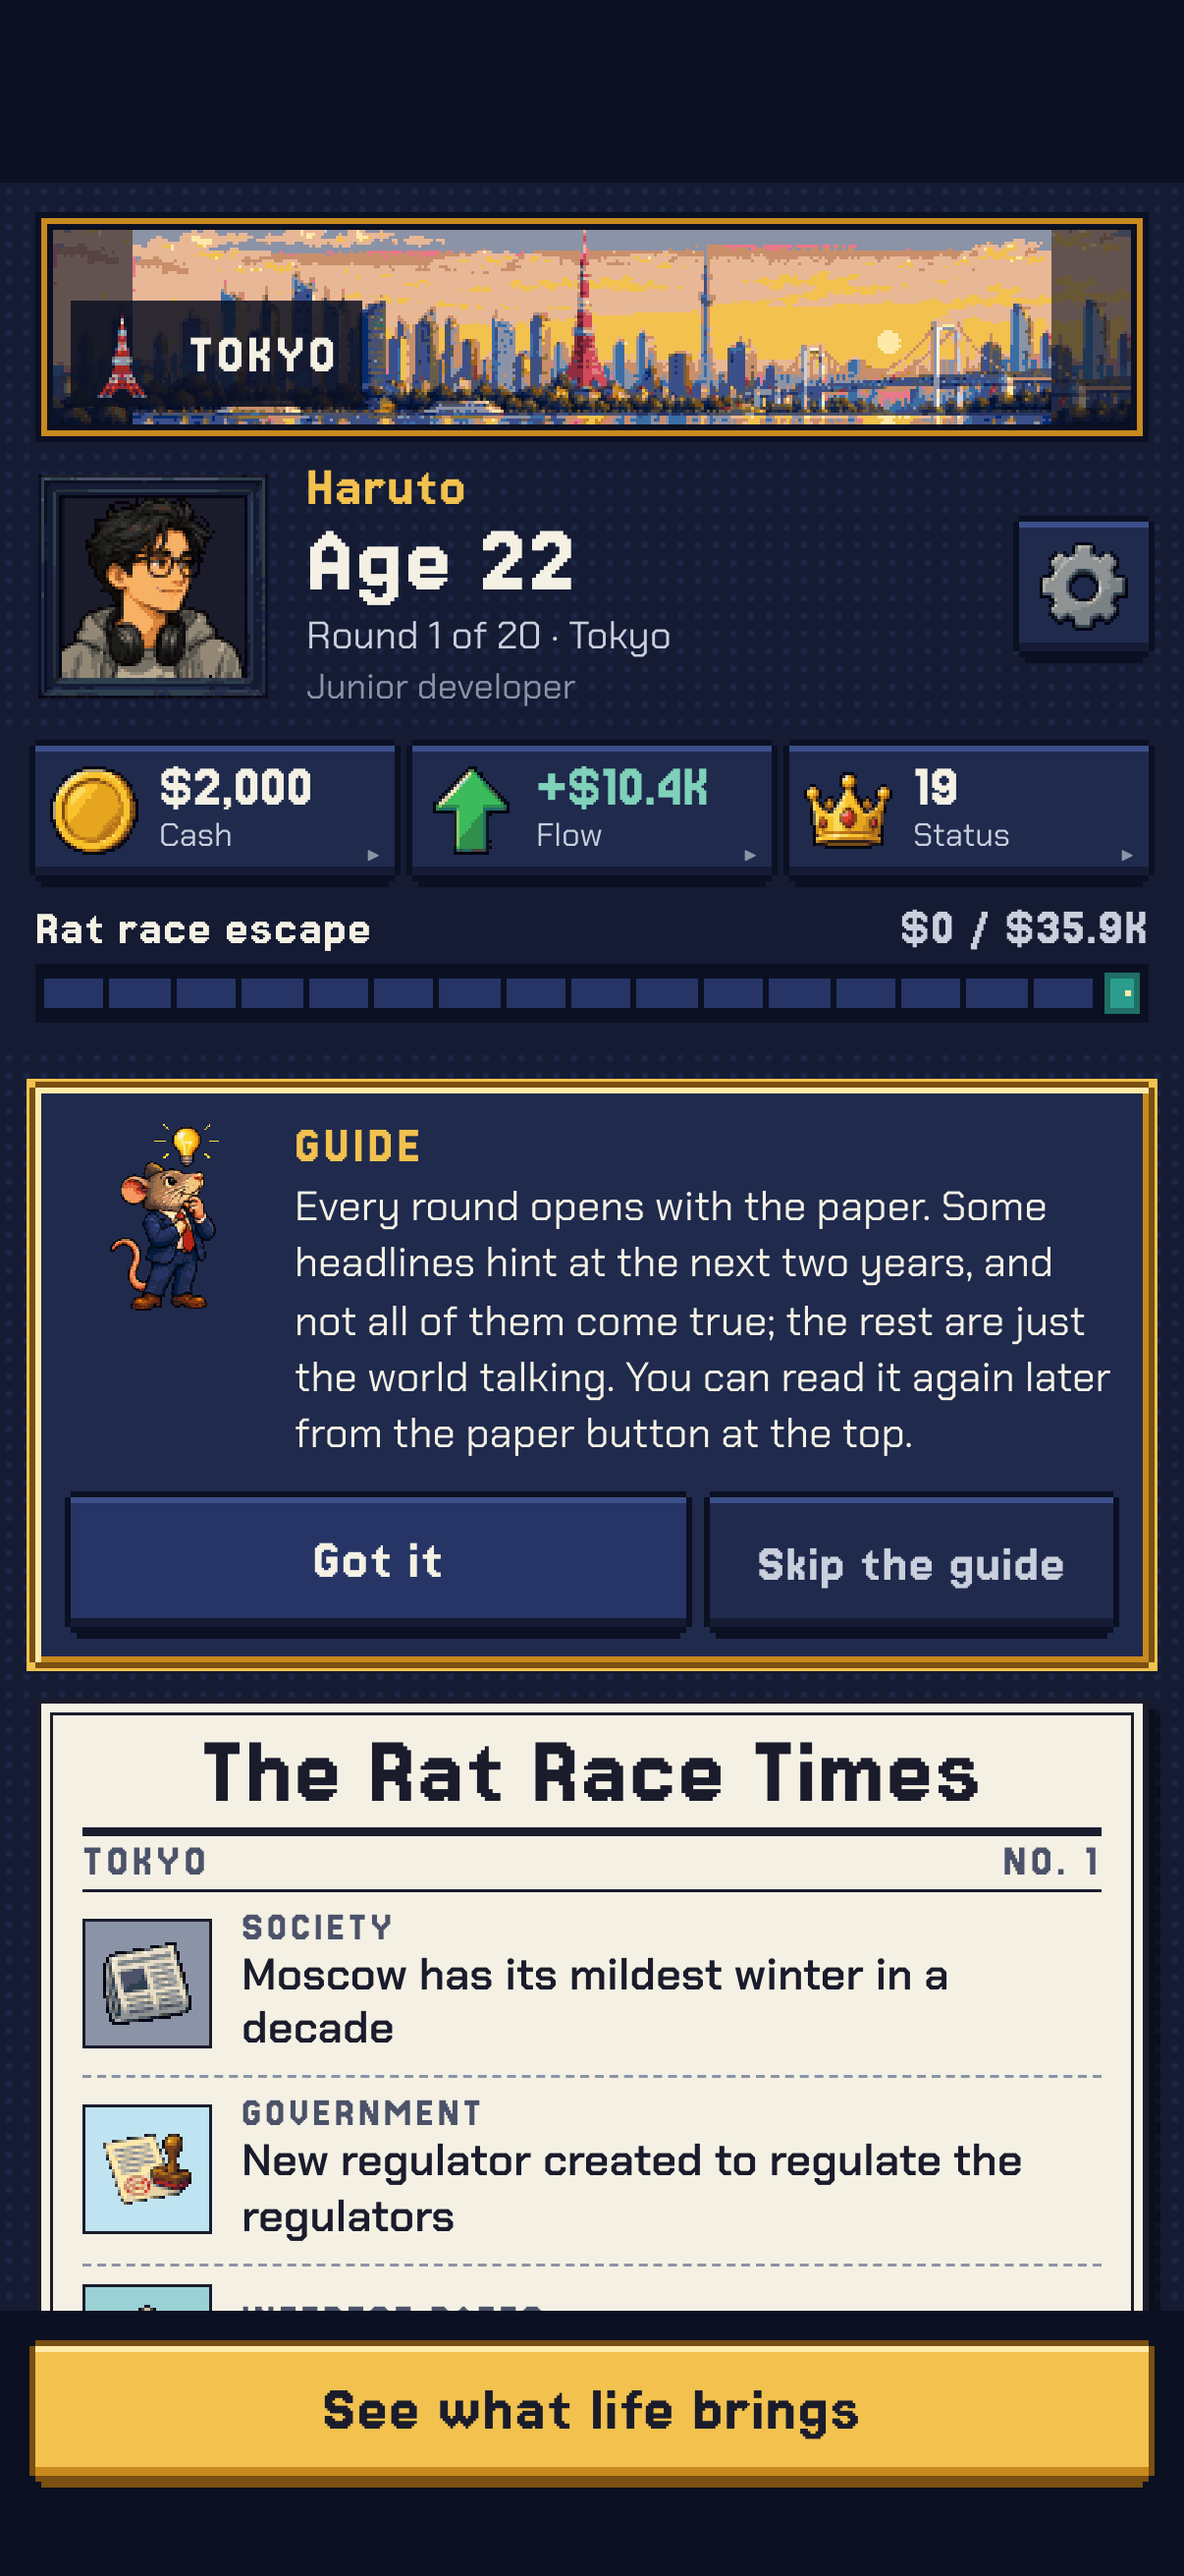
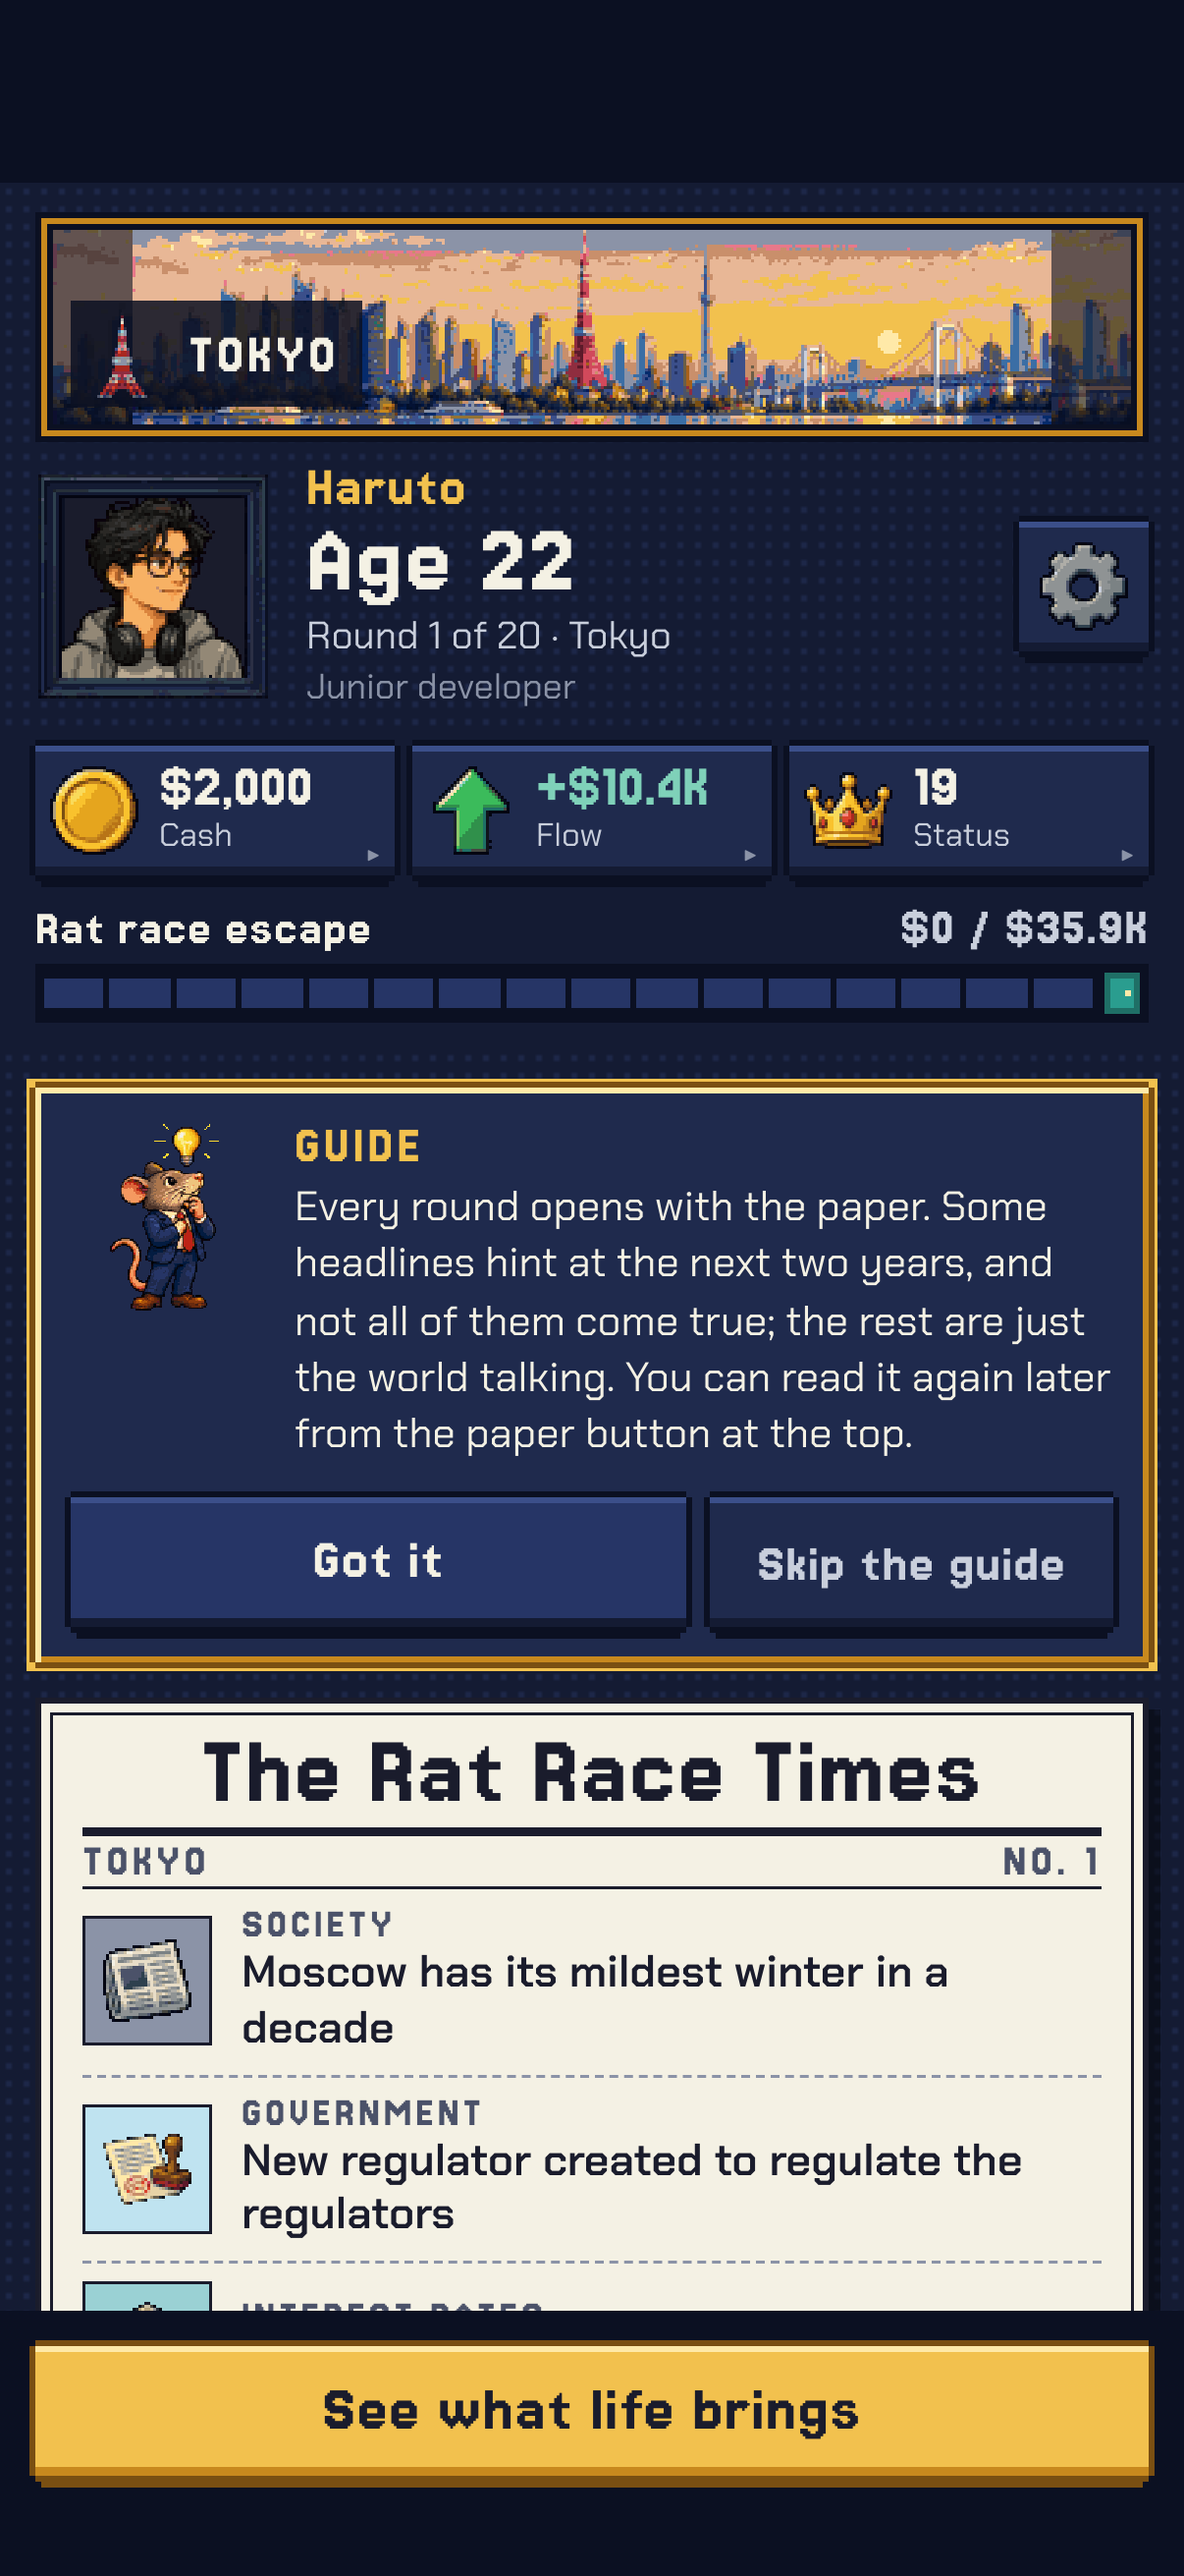
fix(mobile): the paper on the web keeps its own layer, as Chrome keeps the Next web's thrown paper
Under the guide's note or a room's slot (a block of a fractional height) the paper's rows stood a
device pixel or two from the Next web's, each by its own amount, with every line at the same
place to 0.001 px: the Next web's paper keeps its animation's last frame (animate-paper, both)
and Chrome keeps it a layer. On the web the app's paper is one too (ui/keptLayer.web.ts):
play-guide-r1 241 -> 4 px, room-playing 99 -> 9; their records and the report say so.

diff --git a/apps/mobile/scripts/sceneShots.ts b/apps/mobile/scripts/sceneShots.ts
@@ -535,16 +535,16 @@ export const ACCEPTED_APP_WEB: Readonly<Record<string, Accepted>> = {
     report: 'Residuals of the app\'s web: pictures at a fraction of a point',
   },
   'play-guide-r1': {
-    shape: 241,
+    shape: 4,
     oneSided: 0,
-    reason: 'The tops of the letters of the paper\'s last line, under the bar of the next step, peek over the bar\'s edge a device pixel apart (finance-taxes\'s class on the phone); and the four pixels of the city\'s picture of play-news-r1.',
-    report: 'Residuals of the app\'s web: what lies under the bar of the next step',
+    reason: 'The four pixels of the city\'s picture of play-news-r1. (The paper\'s rows under the guide\'s note, a device pixel or two apart, were Chrome\'s layer of the Next web\'s thrown paper: kept on the app\'s web too, ui/keptLayer.web.ts.)',
+    report: 'Residuals of the app\'s web: pictures at a fraction of a point',
   },
   'room-playing': {
-    shape: 99,
+    shape: 9,
     oneSided: 0,
-    reason: 'The tops of the letters of a line under the bar of the next step, as in play-guide-r1, and a pixel of the city\'s picture.',
-    report: 'Residuals of the app\'s web: what lies under the bar of the next step',
+    reason: 'A pixel of the city\'s picture, and eight of the rats of the room\'s bar, as in room-resolved. (The paper\'s rows under the room\'s slot: as in play-guide-r1, mended.)',
+    report: 'Residuals of the app\'s web: pictures at a fraction of a point',
   },
   'play-pageturn': {
     shape: 365,

diff --git a/apps/mobile/src/game/screens/News.tsx b/apps/mobile/src/game/screens/News.tsx
@@ -9,6 +9,7 @@ import { View, type ViewStyle } from 'react-native';
 import Animated from 'react-native-reanimated';
 import { DashedRule } from '../../ui/DashedRule';
 import { usePaper } from '../../ui/animations';
+import { KEPT_LAYER } from '../../ui/keptLayer';
 import { Framed } from '../../ui/Frame';
 import { Panel, SrOnly } from '../../ui/kit';
 import { RatAvatar } from '../../ui/RatAvatar';
@@ -145,7 +146,8 @@ const SHADOW_FOOT: ViewStyle = { position: 'absolute', left: 4, right: 0, bottom
 /** A newspaper, thrown onto the table once a round, spinning: masthead, the double rule of its border, and its stories. */
 function Paper({ children }: { children: ReactNode }) {
   const paper = usePaper();
-  return <Animated.View style={paper}>{children}</Animated.View>;
+  // A layer of its own on the web, as Chrome keeps the Next web's paper once thrown (ui/keptLayer.web.ts); nothing more on the phone.
+  return <Animated.View style={[paper, KEPT_LAYER]}>{children}</Animated.View>;
 }
 
 /** The headlines about the next two years, and the gauges of the economy. */

diff --git a/apps/mobile/src/ui/keptLayer.web.ts b/apps/mobile/src/ui/keptLayer.web.ts
@@ -1,0 +1,11 @@
+import type { ViewStyle } from 'react-native';
+
+/**
+ * The web's twin of `keptLayer.ts`. The Next web's paper is thrown onto the table by a CSS animation that keeps its last frame (`animate-paper`,
+ * `both`), and Chrome keeps such a box a layer of its own: its lines are rastered against the layer, snapped to the device pixels as the layer is.
+ * The app's paper ends on a still transform of its own, which Chrome rasters with the page: under a block of a fractional height (the guide's note,
+ * the room's slot above the paper) its rows stood one or two device pixels from the Next web's, each by its own amount. Kept a layer, they meet
+ * (measured on `play-guide-r1`: 34 532 pixels unlike in the paper's rows, 5 024 with the layer, the ground's weave among them).
+ */
+// (`will-change` is no style of React Native's: react-native-web writes it as it is given.)
+export const KEPT_LAYER = { willChange: 'transform' } as ViewStyle;

diff --git a/apps/mobile/src/ui/keptLayer.web.test.ts b/apps/mobile/src/ui/keptLayer.web.test.ts
@@ -1,0 +1,12 @@
+import { readFileSync } from 'node:fs';
+import { join } from 'node:path';
+import { expect, test } from 'vitest';
+import { KEPT_LAYER } from './keptLayer.web';
+
+test('a box whose Next web animation keeps its last frame (`both`: the paper thrown onto the table) keeps its own layer on the web, as Chrome keeps the Next web\'s', () => {
+  expect(KEPT_LAYER).toEqual({ willChange: 'transform' });
+  const globals = readFileSync(join(__dirname, '../../../web/src/app/globals.css'), 'utf8');
+  expect(globals).toContain('--animate-paper: paper 0.8s steps(12, end) both;');
+  const news = readFileSync(join(__dirname, '../game/screens/News.tsx'), 'utf8');
+  expect(news).toContain('<Animated.View style={[paper, KEPT_LAYER]}>');
+});

diff --git a/apps/mobile/src/ui/keptLayer.ts b/apps/mobile/src/ui/keptLayer.ts
@@ -1,0 +1,4 @@
+import type { ViewStyle } from 'react-native';
+
+/** What a box whose web animation keeps its last frame is given besides its motion: nothing on the phone. The web's twin keeps it a layer of its own. */
+export const KEPT_LAYER: ViewStyle | null = null;

diff --git a/docs/superpowers/reports/2026-10-23-phase-5a-web-parity.md b/docs/superpowers/reports/2026-10-23-phase-5a-web-parity.md
@@ -55,6 +55,7 @@ shot again. In the order they were found:
 | The rat's choices 0.3 pt high (phase 2's unexplained editor residual). | react-native-web tells a layout in whole pixels (`offsetTop`): the grid under its heading (14.296875 + 6) was placed at 20, not 20.296875. | `ui/layoutTop(.web).ts`, used by the editor's grids. |
 | The rat's body cut on other pixels. | The clip, a mask, was scaled pixel for pixel; the Next web's mask is smooth. | `RatAvatar.web.tsx`: no `image-rendering` on the mask. |
 | The web said "update the app", "this phone", and the phone's legal notice. | The phone's own words (`phone.*`). | `game/ownWords(.web).ts`: on the web the Next web's (`home.*`, `common.notSaved`, `play.moved`, `legal`). |
+| The paper's rows one or two device pixels off, each by its own amount, under the guide's note or a room's slot (`play-guide-r1` 241 px, `room-playing` 99), never under nothing (`play-news-r1`). | Measured with `getBoundingClientRect`, every line of both pages stands at the same place to 0.001 px. The paper sits under a block of a fractional height (576.484 pt). The Next web's paper is thrown by a CSS animation that keeps its last frame (`animate-paper`, `both`), and Chrome keeps such a box a layer of its own, rastering its lines against the layer. The app's paper ends on a still transform, which Chrome rasters with the page. With the layer forced in the page, the paper's unlike pixels fell from 34 532 to 5 024. | `ui/keptLayer(.web).ts`: `will-change: transform` on the paper on the web (241 → 4 px, 99 → 9). |
 | A workplace's screens, a banner, never still. | A `Loop` plays on both webs; Chrome now and then rasters a picture at a scale that is not whole on other pixels for one shot, nothing of the page changed. | The loops' boxes are allowed to turn (`changedWithin`); twice the tries to stand still. |
 
 ## Results
@@ -169,12 +170,8 @@ A picture laid at a fraction of a point (a rat in a row, the city's picture in t
 1/64 px on both sides (measured with `getBoundingClientRect`), and is drawn nearest-neighbour from its art: a few of its edge pixels are sampled on
 the next device row. `rankings-friends` (17), `room-lobby-friends` (5 and 10 over the Next web's shots of one page, recorded 15), `room-lobby-public` (14), `room-loans` (17), `room-resolved` (7), `room-end`
 (17), `room-history` (12): the rats. `play-news-r1` (4), `play-news-r6` (1), `hud-news-r1` (4), `play-resolve-r6` (3), `finance-business` (4): the
-city's picture and a picture's edge. `celebrate-earned` (230): the last row of the light under the last card, the width of the page.
-
-## Residuals of the app's web: what lies under the bar of the next step
-
-The tops of the letters of a line the bar of the next step covers (covered at its middle, so no text to the check) peek over the bar's edge a device
-pixel apart: `play-guide-r1` (241, and the city's four pixels), `room-playing` (99). The phone's `finance-taxes` class.
+city's picture and a picture's edge. `celebrate-earned` (230): the last row of the light under the last card, the width of the page. `play-guide-r1` (4): the city's four pixels;
+`room-playing` (9): a pixel of the city's picture and eight of the rats of the room's bar.
 
 ## Residuals of the app's web: the Next web's own
 

diff --git a/docs/superpowers/specs/2026-10-20-expo-app-design.md b/docs/superpowers/specs/2026-10-20-expo-app-design.md
@@ -226,12 +226,13 @@ bar, the stage, the bottom action bar, Finance sub-tabs sticking below the HUD) 
    (viewport, body). `web:size`: 1.17 MB gzip of the app's JavaScript (budget 1.35 MB), no `.wasm`, none of Skia, SQLite,
    formatjs's polyfills, the webview, the media library or the bundled older rules. Its ninety-three scenes were shot in the same Chrome as the
    Next web's (`scene-shots.ts appweb`, `compare --against=appweb`): 73 clean and 20 within
-   a recorded and measured residual (a picture's edge at a fraction of a point, letters under the bar,
-   the Next web's own lamp sliver, an arrow on a Russian page); two full runs exit 0.
+   a recorded and measured residual (a picture's edge at a fraction of a point, the Next web's own lamp
+   sliver, an arrow on a Russian page); two full runs exit 0.
    The shots found and fixed, in shared kit code with the phone unchanged, what a browser lays out
    otherwise than iOS (the line a text is set from, a span's and a fallback run's line, Chrome's
    1/64 px rounding of a ratio line, whole-pixel `onLayout`, an emoji's and a system sign's font
-   and size, CSS underlines, a blend isolated by react-native-web's `z-index: 0`, the safe areas
+   and size, CSS underlines, a blend isolated by react-native-web's `z-index: 0`, the layer Chrome keeps for a
+   box whose animation keeps its last frame, the safe areas
    expo-router gives the web as zero, `BackHandler` on the web). A whole life was begun on the Next
    web, its saves copied into the app's web's origin, continued there from the same round and
    finished, the records keeping it (`scripts/web-life.ts`). The phone's scenes whose drawing the
